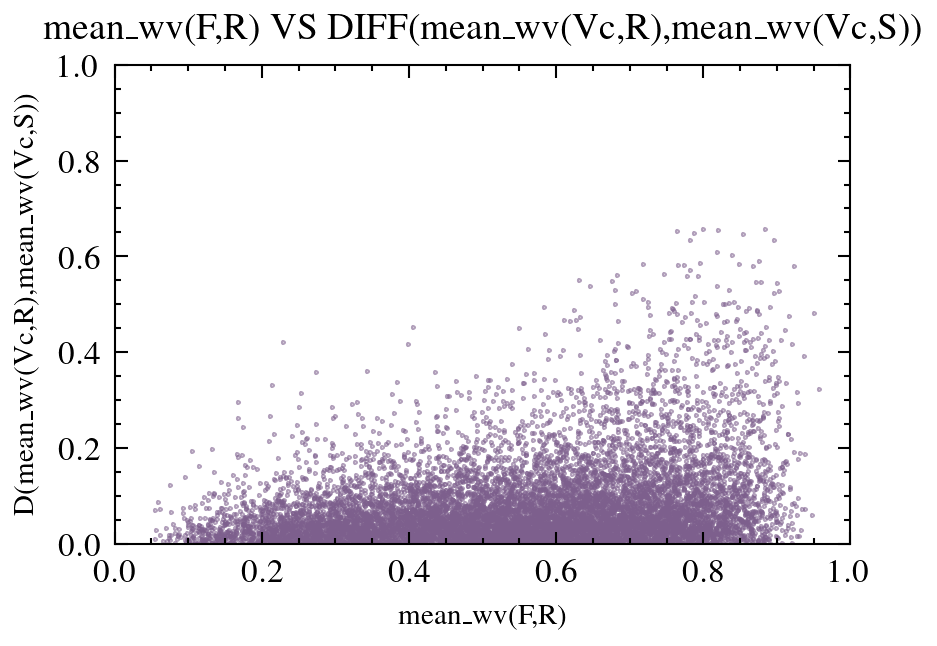
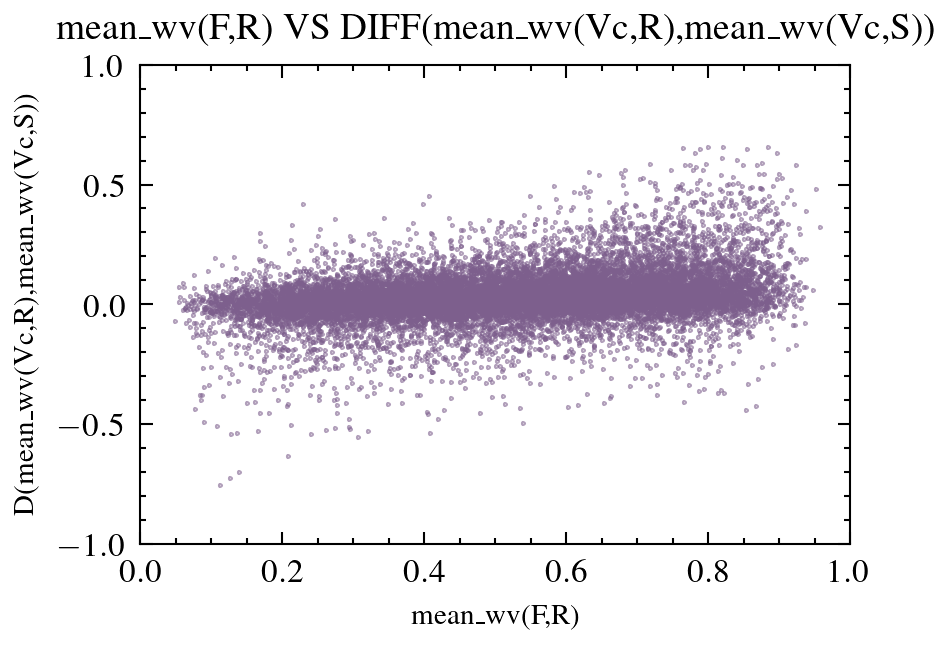
ayaya

diff --git a/plottings/manual.py b/plottings/manual.py
@@ -1,0 +1,47 @@
+import matplotlib
+import pandas as pd
+import matplotlib.pyplot as plt
+import re
+import scienceplots
+
+plt.style.use(['science', 'ieee','scatter'])
+
+df = pd.read_csv('../data/complete_df.csv')
+
+for round in [1,2,4,5]:
+    df[f'D(clip_flant(Vc_{round},R),clip_flant(Vc_{round},S))'] = df[f'clip_flant(Vc_{round},R)'] - df[f'clip_flant(Vc_{round},S)']
+    df[f'D(clip_flant(Vu_{round},R),clip_flant(Vu_{round},S))'] = df[f'clip_flant(Vu_{round},R)'] - df[f'clip_flant(Vu_{round},S)']
+    df[f'D(clip_flant(Vu_{round},S),clip_flant(Vc_{round},S))'] = df[f'clip_flant(Vu_{round},S)'] - df[f'clip_flant(Vc_{round},S)']
+    df[f'D(clip_flant(Vu_{round},R),clip_flant(Vc_{round},R))'] = df[f'clip_flant(Vu_{round},R)'] - df[f'clip_flant(Vc_{round},R)']
+    df[f'D(llava(Vc_{round},R),llava(Vc_{round},S))'] = df[f'llava(Vc_{round},R)'] - df[f'llava(Vc_{round},S)']
+    df[f'D(llava(Vu_{round},R),llava(Vu_{round},S))'] = df[f'llava(Vu_{round},R)'] - df[f'llava(Vu_{round},S)']
+    df[f'D(llava(Vu_{round},S),llava(Vc_{round},S))'] = df[f'llava(Vu_{round},S)'] - df[f'llava(Vc_{round},S)']
+    df[f'D(llava(Vu_{round},R),llava(Vc_{round},R))'] = df[f'llava(Vu_{round},R)'] - df[f'llava(Vc_{round},R)']
+    df[f'D(instructblip(Vc_{round},R),instructblip(Vc_{round},S))'] = df[f'instructblip(Vc_{round},R)'] - df[f'instructblip(Vc_{round},S)']
+    df[f'D(instructblip(Vu_{round},R),instructblip(Vu_{round},S))'] = df[f'instructblip(Vu_{round},R)'] - df[f'instructblip(Vu_{round},S)']
+    df[f'D(instructblip(Vu_{round},S),instructblip(Vc_{round},S))'] = df[f'instructblip(Vu_{round},S)'] - df[f'instructblip(Vc_{round},S)']
+    df[f'D(instructblip(Vu_{round},R),instructblip(Vc_{round},R))'] = df[f'instructblip(Vu_{round},R)'] - df[f'instructblip(Vc_{round},R)']
+
+df[f'D(mean(Vc,R),mean(Vc,S))'] = df[f'mean(Vc,R)'] - df[f'mean(Vc,S)']
+df[f'D(mean(Vu,R),mean(Vu,S))'] = df[f'mean(Vu,R)'] - df[f'mean(Vu,S)']
+df[f'D(mean(Vu,S),mean(Vc,S))'] = df[f'mean(Vu,S)'] - df[f'mean(Vc,S)']
+df[f'D(mean(Vu,R),mean(Vc,R))'] = df[f'mean(Vu,R)'] - df[f'mean(Vc,R)']
+
+size = 0.05
+transparency = 0.6  # df[y]
+# for i in range(len(transparency)):
+#    transparency[i] = min(abs(transparency[i])+0.1, 1)
+
+plt.title("title",fontsize=9)
+plt.scatter((df['mean_wv(F,S)']+df['mean_wv(F,R)'])/2, df['mean_wv(Vu,S)'], s=size,c='blue',marker='>', alpha=transparency)
+
+plt.xlabel('xlable',fontsize=7)
+plt.ylabel('ylable',fontsize=7)
+plt.xlim([0,1])
+plt.ylim([0,1])
+plt.tight_layout(pad=2.0)
+
+plt.savefig(f'plots/manuals/test.png', dpi=300)
+plt.clf()
+
+matplotlib.pyplot.close()

diff --git a/plottings/models_correlation.py b/plottings/models_correlation.py
@@ -2,27 +2,27 @@ import pandas as pd
 import matplotlib.pyplot as plt
 import scienceplots
 
-plt.style.use(['science','ieee','no-latex'])
+plt.style.use(['science','ieee','scatter'])
 
 df = pd.read_csv('../data/complete_df.csv')
 
 
-size = 0.007
-transparency = 0.9
+size = 0.1
+transparency = 0.6
 
-ds = df.sort_values('llava(Vc_1,R)',ascending=True)
+ds = df.sort_values('clip_flant(Vc_1,R)',ascending=True)
 
 ds.reset_index(drop = True, inplace = True)
 
-plt.title("Models correlation",fontsize=9)
-plt.scatter(ds.index.values, ds['videocon(Vc_1,R)'],c='#145d9e',s=size/2,alpha=transparency,marker='o')
-plt.scatter(ds.index.values, ds['instructblip(Vc_1,R)'],c='#0cb14d',s=size,alpha=transparency,marker='o')
-plt.scatter(ds.index.values, ds['llava(Vc_1,R)'],c='#f13511',s=size,alpha=transparency,marker='o')
-plt.scatter(ds.index.values, ds['clip_flant(Vc_1,R)'],c='#f79410',s=size,alpha=transparency,marker='o')
+plt.title("Models correlation",fontsize=7)
+plt.scatter(ds.index.values, ds['videocon(Vc_1,R)'],c='#f79410',s=size,alpha=transparency,marker='+')
+plt.scatter(ds.index.values, ds['instructblip(Vc_1,R)'],c='#0cb14d',s=size,alpha=transparency,marker='x')
+plt.scatter(ds.index.values, ds['llava(Vc_1,R)'],c='#145d9e',s=size,alpha=transparency,marker='+')
+plt.scatter(ds.index.values, ds['clip_flant(Vc_1,R)'],c='#f13511',s=size/10,alpha=transparency,marker='x')
 
-plt.tight_layout(pad=2.0)
+plt.tight_layout()
 
-plt.savefig(f'plots/models_correlations/v_r_c.png', dpi=600)
+plt.savefig(f'plots/models_correlations/v_r_c.png', dpi=1000)
 plt.clf()
 
 # TODO fare un grafico che mostra il valore medio n per n come sopra cosi da eliminare un po' di rumore

diff --git a/plottings/uniques.py b/plottings/uniques.py
@@ -1,3 +1,5 @@
+import math
+
 import matplotlib
 import pandas as pd
 import matplotlib.pyplot as plt
@@ -123,7 +125,9 @@ for x,y,title,xlable,ylable,model,color1,xlim,ylim,filename in zip(X,Y,TITLES,XL
     else:
         color = color1
     size = 0.05
-    transparency = 0.6
+    transparency = 0.6  # df[y]
+    # for i in range(len(transparency)):
+    #    transparency[i] = min(abs(transparency[i])+0.1, 1)
 
     plt.title(title,fontsize=9)
     plt.scatter(df[x], df[y], s=size,c=color,marker='>', alpha=transparency)
